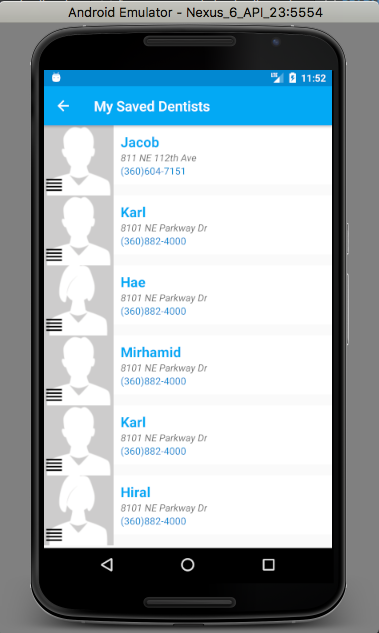
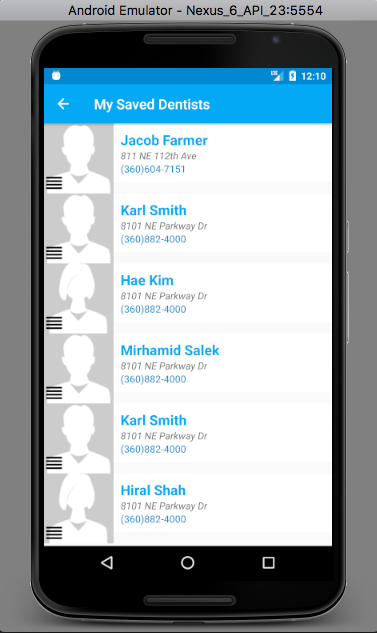
add lastname on saved list and edit screenshots

diff --git a/app/src/main/java/com/epicodus/dentistfinder/adapters/FirebaseDentistViewHolder.java b/app/src/main/java/com/epicodus/dentistfinder/adapters/FirebaseDentistViewHolder.java
@@ -56,7 +56,7 @@ public class FirebaseDentistViewHolder extends RecyclerView.ViewHolder implement
                 .centerCrop()
                 .into(dentistImageView);
 
-        nameTextView.setText(dentist.getFirstName());
+        nameTextView.setText(dentist.getFirstName() + " " + dentist.getLastName());
         String phoneNum = TextUtils.join("",dentist.getPhone());
         phoneNum ="("+phoneNum.substring(0,3)+")" + phoneNum.substring(3,6)+"-"+ phoneNum.substring(6, phoneNum.length());
         phoneTextView.setText(phoneNum);

diff --git a/README.md b/README.md
@@ -19,6 +19,7 @@ _Ask user's input for either zip code, dentist name or insurance then program wi
 | Program will ask for display list of dentist based on user's input of Dentist  | Matt | Matthew Aldridge |
 | Program will ask for display list of dentist based on user's input of insurance  | Metlife | Matthew Aldridge, Benjamin .....|
 | Program will save chosen dentist when save button is clicked  | Matthew Aldridge clicked save button| Matthew Aldridge - saved|
+| Program will reorder saved list when drag up and down | [1]Matthew Aldridge [2] | Matthew Aldridge - saved|
 
 ## Screenshots
 
@@ -28,9 +29,8 @@ _Ask user's input for either zip code, dentist name or insurance then program wi
 ![image of dentist list](https://github.com/malethr/DentistFinder/blob/master/screenshots/list.png)
 ![image of dentist detail](https://github.com/malethr/DentistFinder/blob/master/screenshots/detail.png)
 ![image of dentist saved](https://github.com/malethr/DentistFinder/blob/master/screenshots/savedList.png)
-
-![image of dentist createL](https://github.com/malethr/DentistFinder/blob/master/screenshots/createL.png)
 ![image of dentist homeL](https://github.com/malethr/DentistFinder/blob/master/screenshots/homeL.png)
+![image of dentist createL](https://github.com/malethr/DentistFinder/blob/master/screenshots/createL.png)
 ![image of dentist loginL](https://github.com/malethr/DentistFinder/blob/master/screenshots/loginL.png)
 ![image of dentist listL](https://github.com/malethr/DentistFinder/blob/master/screenshots/listL.png)
 ![image of dentist savedL](https://github.com/malethr/DentistFinder/blob/master/screenshots/savedListL.png)
@@ -38,9 +38,7 @@ _Ask user's input for either zip code, dentist name or insurance then program wi
 
 ## Future Development
 * _Able to use google maps and can access user's location using geolocation_
-* _Provide a login and sign-up form._
 * _Can accept reviews from patients and can accept bookings._
-* _Will add more detail information (ex. Bio)_
 
 
 ## Setup/Installation Requirements
